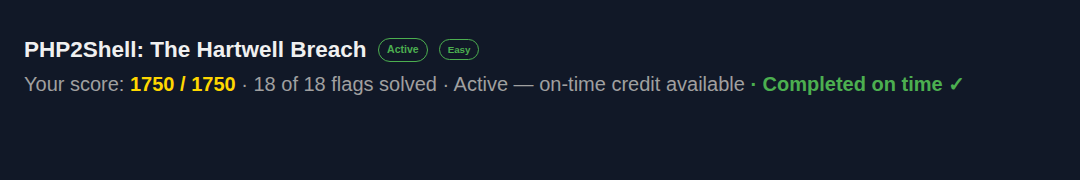
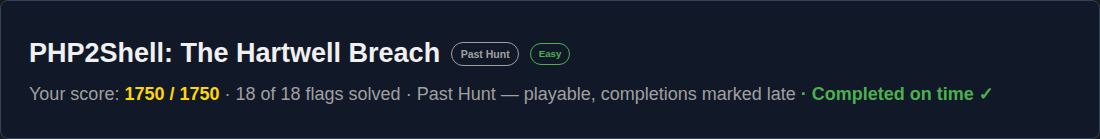
Document Hartwell threat hunt with evidence screenshots

diff --git a/tests/test_visual_evidence.py b/tests/test_visual_evidence.py
@@ -1,4 +1,4 @@
-"""Disclosure-boundary regressions for the five reviewed portfolio captures."""
+"""Disclosure-boundary regressions for the reviewed portfolio captures."""
 from copy import deepcopy
 import hashlib
 import importlib.util
@@ -33,13 +33,13 @@ class VisualEvidenceTests(unittest.TestCase):
             self.assertTrue(Q.protected(Path(name)), name)
 
     def test_allowlist_is_exact_and_does_not_allow_path_variants(self):
-        self.assertEqual(len(Q.REVIEWED_IMAGE_PATHS), 5)
+        self.assertEqual(len(Q.REVIEWED_IMAGE_PATHS), 7)
         for name in Q.REVIEWED_IMAGE_PATHS:
             self.assertFalse(Q.protected(Path(name)))
             self.assertTrue(Q.protected(Path("unapproved") / name))
             self.assertTrue(Q.protected(Path("Planning/..") / name))
 
-    def test_valid_bounded_png_and_actual_five_images(self):
+    def test_valid_bounded_png_and_actual_reviewed_images(self):
         data = png()
         self.assertEqual(Q.inspect_reviewed_png(data, record(data)), [])
         records = Q.load_reviewed_images((ROOT / "docs/visual-evidence.json").read_text())

diff --git a/tools/check_repository.py b/tools/check_repository.py
@@ -20,6 +20,8 @@ REVIEWED_IMAGE_PATHS = frozenset({
     "vulnerability-management/evidence/assessment-overview.png",
     "cyber-defense/workbooks/evidence/workbook-overview.png",
     "threat-hunting/evidence/hunt-completion.png",
+    "threat-hunting/evidence/hartwell-source-coverage.png",
+    "threat-hunting/evidence/hartwell-analysis-checks.png",
     "docs/evidence/endpoint-response.png",
 })
 MAX_IMAGE_BYTES = 256 * 1024
@@ -74,7 +76,7 @@ def check_links(path, text, root):
 
 
 def load_reviewed_images(text):
-    """Only the fixed five paths; manifest fields cannot expand readable scope."""
+    """Only the fixed reviewed paths; manifest fields cannot expand readable scope."""
     data = json.loads(text)
     images = data.get("images", [])
     if data.get("schema") != 1 or len(images) != len(REVIEWED_IMAGE_PATHS):

diff --git a/threat-hunting/README.md b/threat-hunting/README.md
@@ -1,34 +1,168 @@
-# Threat hunting and incident reconstruction
+# PHP2Shell: The Hartwell Breach
 
-[Portfolio](../README.md) · [Detection engineering](../cyber-defense/README.md) · [Validation](../docs/local-validation.md)
+[Portfolio](../README.md) · [Windows investigation](module-1/README.md) · [Investigation method](investigation-method.md)
 
-This collection shows how to turn security events into a defensible account of what happened: establish data coverage, correlate independent sources, distinguish attempted actions from successful ones, and document uncertainty before proposing containment.
+**Threat hunt report · Ryan DeJong · November 13, 2026**
 
-Two authorized investigations inform the work. Their original evidence and detailed reports remain private; the repository provides reusable methods, original queries, and sanitized execution summaries.
+[Scope](#scope-and-tools) · [Findings](#what-happened) · [Behavior mapping](#behavior-mapping) · [Recommended response](#recommended-response)
 
-## Investigations and artifacts
+I investigated a compromised Linux web server running WordPress, following the activity from web reconnaissance through command execution, credential access, and persistence. The work used KQL against seven log sources in an authorized Cyber Range training dataset.
 
-| Work | Method and result | Read next |
+The strongest evidence came from connecting HTTP requests to host activity. A suspicious request became much more meaningful when a filesystem event, a new web endpoint, and a web-server child process supported the same explanation. I also checked whether the attacker's attempts to stop monitoring worked and whether the available records supported lateral movement.
+
+**Result:** 18/18 flags, 1,750/1,750 points, completed within the competition window. The technical findings and their limits are documented below.
+
+![Actual Hartwell hunt page showing the title, 1750 of 1750 points, 18 of 18 flags solved, and Completed on time](evidence/hunt-completion.png)
+
+*Screenshot from the completed hunt. The page now labels the competition as a past hunt; my result still shows “Completed on time.” Only the original title and my completion indicator are shown. [Screenshot provenance](../docs/visual-evidence.md).*
+
+## Scope and tools
+
+| Item | Scope |
+|---|---|
+| Environment | One Linux/WordPress scenario host; historical training telemetry |
+| Event window | October 23, 2026, 04:00–16:00 UTC, narrowed for individual questions |
+| Query platform | Azure Log Analytics and Kusto Query Language (KQL) |
+| Analysis | HTTP and host-event correlation, process ancestry, safe decoding, timeline reconstruction, and scope checks |
+| Supporting tools | Python for checking transformations and evidence hashes |
+| Response work | Recommendations only; no containment or recovery was performed on the scenario host |
+
+### Check coverage before drawing conclusions
+
+The scoped dataset contained **52,979 events**. These are log records, not 52,979 attacks or unique actions.
+
+| Source | Events | What it contributed |
+|---|---:|---|
+| Apache access | 2,895 | Request patterns, new URIs, and HTTP status codes |
+| Apache error | 93 | PHP warnings and application-side context |
+| Enriched HTTP | 458 | Request metadata and decoded command fields |
+| Sysmon | 34,559 | Process creation, parent processes, and available network events |
+| Linux audit | 9,786 | Filesystem activity and corroborating host evidence |
+| Authentication | 382 | Available login and service-related context |
+| Syslog | 4,806 | System and monitoring-related messages |
+
+![Evidence review showing the seven source counts and their observed time coverage](evidence/hartwell-source-coverage.png)
+
+*Screenshot of my local evidence review, built from the preserved KQL results. This is an analysis view, not an Azure console screenshot. The bars show the first and last observed event for each source; they do not imply uninterrupted logging.*
+
+Authentication and Syslog records started after the main command window. Some normalized network fields were empty. Those gaps mattered when assessing what I could reasonably rule out.
+
+This is a shortened version of the coverage query. The time parameters are deliberately empty; they must be set for an authorized dataset before use. It omits the original query's `TimeGenerated` comparisons because those values do not establish ingestion time.
+
+```kusto
+let Begin = datetime(null);
+let End = datetime(null);
+union withsource=SourceTable
+    HartwellApache_CL, HartwellApacheError_CL,
+    HartwellHTTPEnriched_CL, HartwellSysmon_CL,
+    HartwellAudit_CL, HartwellAuth_CL, HartwellSyslog_CL
+| where isnotnull(Begin) and isnotnull(End)
+| where OriginalTime between (Begin .. End)
+| summarize Events=count(),
+            FirstEvent=min(OriginalTime),
+            LastEvent=max(OriginalTime) by SourceTable
+| order by FirstEvent asc
+```
+
+## What happened
+
+The sequence below combines several sources. It is not a second-by-second synchronized timeline: an apparent offset between application error and HTTP records remained unresolved.
+
+| Stage | Evidence I followed | Conclusion |
 |---|---|---|
-| Web-server incident reconstruction | Completed investigation using seven event sources. Correlated HTTP activity with host execution, decoded request content as data, and assessed persistence, evasion attempts, and possible data transfer. Coverage gaps remained explicit. | [HTTP-to-host investigation method](investigation-method.md) |
-| Windows endpoint investigation | Executed ten scoped KQL queries against authorized historical telemetry. Produced an evidence-linked timeline, incident analysis, and a proposed containment plan. The combined focus timeline contained 233 source rows, not 233 unique attacker actions. | [Defender query catalog and execution report](module-1/README.md) |
+| Reconnaissance | Repeated probes, request volume, and scanner-identifying user-agent records | The traffic included deliberate reconnaissance rather than ordinary browsing alone. |
+| Exploitation and foothold | Upload-related request characteristics, PHP warnings, audit filesystem events, and a newly requested PHP endpoint | Multiple sources supported the transition from probing to a webshell. A warning alone did not prove the exploit mechanism. |
+| Remote command execution | Apache-parented processes and enriched HTTP command metadata | The attacker obtained command execution in the web-service account's context. |
+| Discovery and credential access | Host/network discovery commands, monitoring enumeration, configuration reads, and SQL query metadata | The attacker investigated the host and accessed application/database credential material. Exact returned contents were not collected. |
+| Attempted monitoring disruption | Service-stop commands followed by continuing process, audit, and monitoring-related activity | The evidence supported attempted suppression, not sustained loss of all monitoring. |
+| Persistence and scope | Scheduling commands, a staged implant, HTTP responses, and scoped process/command checks | Commands to establish persistence were observed. The available command records did not establish lateral movement. |
 
-![Owned hunt completion indicator showing 18 of 18 flags and 1750 of 1750 points, completed on time](evidence/hunt-completion.png)
+### 1. Connect the web activity to execution
 
-*Actual completion indicator for the web-server investigation. Only the title and owned result are shown; no answers, telemetry or participant scoreboard are included. [Capture provenance](../docs/visual-evidence.md).*
+I started with access-log patterns, then used application errors and enriched HTTP records to narrow the suspicious requests. The important step was corroboration: Linux audit events supported a new file in the web root, later access logs showed requests to that endpoint, and Sysmon recorded child processes associated with the web server.
 
-## Investigation workflow
+That chain supported successful command execution. It was stronger than treating every unusual request or PHP warning as a successful exploit. I did not attribute a specific CVE from the available evidence.
 
-1. Define the authorized device set, time window, hypothesis, and available event sources.
-2. Check coverage before interpreting a missing result. Preserve query hashes, timestamps, row limits, and source event identifiers.
-3. Correlate authentication, process, network, file, registry, account, and persistence evidence. Keep actor and target fields distinct.
-4. Build a timeline and test alternative explanations. A shared alert is an investigation lead; it does not establish that every linked endpoint was compromised.
-5. Propose a bounded response and recovery plan based on supported findings. Separate proposed actions from actions actually performed.
+For process triage, I grouped executable and parent-process pairs before inspecting a smaller set of command records. This excerpt follows the same approach; the account and time bounds are withheld parameters. The shortened queries in this report were not rerun against the service.
 
-The [query catalog](module-1/README.md#query-index) covers each evidence category. All saved queries default to empty device scope and null time bounds; authorized values belong in a private execution copy. The [report structure](module-1/README.md#incident-report-structure) makes findings, uncertainty, provenance, and response decisions reviewable.
+```kusto
+let Begin = datetime(null);
+let End = datetime(null);
+let WebAccount = "";
+HartwellSysmon_CL
+| where isnotnull(Begin) and isnotnull(End) and isnotempty(WebAccount)
+| where OriginalTime between (Begin .. End)
+| where toint(EventID) == 1 and User == WebAccount
+| summarize ProcessEvents=count(),
+            FirstSeen=min(OriginalTime),
+            LastSeen=max(OriginalTime) by Image, ParentImage
+| order by ProcessEvents desc
+```
 
-## From investigation to detection and response
+### 2. Verify the hidden command channel
 
-The [authentication-sequence detector](../cyber-defense/README.md) and [Sentinel workbook](../cyber-defense/workbooks/README.md) demonstrate a separate, testable correlation use case. Their synthetic results do not establish that they detected these historical incidents. The [endpoint response report](../docs/endpoint-validation.md) records a separately authorized isolation/recovery exercise on the owned VM; no response was performed against the historical investigation endpoints.
+Standard access logs did not provide the full command context. Enriched HTTP records exposed the additional request metadata needed to understand how the webshell was operated.
 
-Restricted answers, account names, internal addresses, raw telemetry, and private incident timelines are excluded. The detailed [execution limits](module-1/README.md#observed-execution-and-limits) remain part of the technical record.
+I checked four raw/decoded command pairs as data. Reapplying the candidate transformations reproduced all four observed encoded values exactly; alternative transformation orders did not match. I then compared the decoded activity with host-process evidence. No decoded command was executed during the analysis.
+
+This established the tested encoding order for those samples. It did not prove that every encoded request in the dataset used the same scheme. The custom header name, payload names, and exact flag values remain private.
+
+### 3. Follow discovery and credential access
+
+Process records showed the attacker inspecting network configuration, neighboring systems, listening services, and the monitoring stack. Later activity accessed application configuration and queried user records in the database.
+
+I retained the query structure and relevant table/column metadata without collecting password or hash values. Configuration and database reads lined up with webshell requests and responses. Response metadata supported data returning over the existing webshell channel, but the response bodies were not retrieved. Early HTTP errors were not counted as successful extraction, and I did not claim a confirmed number of stolen records.
+
+### 4. Test whether the monitoring disruption worked
+
+The attacker tried to stop monitoring services. A stop command in a process log only establishes an attempt, so I checked what happened afterward.
+
+The follow-up window contained **608 Sysmon events** and **385 audit events**. It also contained **7 forwarder-related process events**, which are a subset of the Sysmon count, not seven additional independent events. That continued activity supported the conclusion that monitoring was not persistently silenced.
+
+The available records did not include every command's exit code or output. The web-service account's limited privileges provided context, but continued telemetry was the observable basis for the outcome assessment. Short gaps in monitoring were not ruled out.
+
+### 5. Assess persistence and incident scope
+
+Scheduling commands and a staged implant supported an attempt to maintain access. The staging path pointed to a location normally backed by volatile storage, which would matter for evidence collection before a restart. I did not inspect the target's mount configuration, swap behavior, or implant contents, so I did not claim the artifact was forensically unrecoverable. An installation command alone did not prove that later scheduled executions succeeded.
+
+For lateral movement, I reviewed **71 web-account process-creation records** and **45 decoded webshell commands** in the narrowed window. The scoped checks found no remote-login tools, explicit remote database host options in the process records, or references to additional internal destinations in those reviewed commands.
+
+![Evidence review showing monitoring continuation, four encoding checks, and the limits of the lateral-movement assessment](evidence/hartwell-analysis-checks.png)
+
+*Screenshot of my local analysis review, using preserved query results. Counts describe the reviewed records and checks. They do not establish complete network visibility or prove that no other activity occurred.*
+
+My conclusion was **no lateral movement evidenced in the reviewed scope**. Empty destination, port, and initiation fields prevented a complete network-level conclusion. I did not turn missing fields into “no connections” or classify an empty destination as a verified external address.
+
+## Behavior mapping
+
+These are analyst mappings of the supported behavior, not attribution to a named threat group. ATT&CK describes the techniques; the investigation evidence determines whether an attempt or outcome was observed.
+
+| Behavior | ATT&CK reference | Assessment |
+|---|---|---|
+| Webshell-based access | [T1505.003 — Web Shell](https://attack.mitre.org/techniques/T1505/003/) | Corroborated by web, filesystem, and process records. |
+| Access to credential-bearing configuration | [T1552.001 — Credentials In Files](https://attack.mitre.org/techniques/T1552/001/) | File/query activity observed; secret values excluded from collection and publication. |
+| Attempts to disable monitoring | [T1685 — Disable or Modify Tools](https://attack.mitre.org/techniques/T1685/) | Attempt observed; subsequent monitoring activity remained visible. |
+| Recurring execution mechanism | [T1053 — Scheduled Task/Job](https://attack.mitre.org/techniques/T1053/) | Installation command observed; later scheduled execution was not verified. |
+| Data returned through the command channel | [T1041 — Exfiltration Over C2 Channel](https://attack.mitre.org/techniques/T1041/) | Supported channel interpretation; response contents and total data loss were not independently established. |
+
+## Recommended response
+
+These are proposed actions for an authorized response team, not actions performed during this hunt:
+
+1. Preserve volatile host evidence, relevant logs, and the web application state before restarting or rebuilding the server.
+2. Contain the compromised web service while preserving an approved recovery path. Investigate and correct the entry point before returning it to service.
+3. Rotate exposed application/database credentials and assess affected user accounts. Establish the actual exposure from retained evidence rather than assuming every database record was stolen.
+4. Remove the webshell and persistence, verify monitoring health, and validate recovery from a trusted state.
+5. Expand the scope with usable network and authentication evidence. Review other assets only with explicit authorization.
+
+Detection improvements would focus on web-server processes spawning shells, new executable content under the web root, monitoring-service stop attempts, and unexpected scheduled execution. Correlating those behaviors with HTTP activity is more useful than depending on one payload filename or attacker-controlled header.
+
+## Lessons and evidence
+
+The most useful habit in this investigation was asking what each record actually proved. A request was not execution, a stop command was not a stopped service, and an empty network field was not evidence of no traffic. Checking source coverage early kept those distinctions clear.
+
+The [sanitized evidence summary](investigation-summary.json) records the counts used here. Private records retain the executed queries, source results, timestamps, and integrity manifests; **34 hunt evidence files were rechecked against their saved hashes** while preparing this report. Hash agreement verifies preserved bytes, not the completeness or independent authenticity of the source telemetry.
+
+Screenshots include one actual application capture and two clearly labeled local analysis views. No result values were invented or changed. Private addresses, credentials, exact challenge answers, raw commands, and participant scoreboard information are excluded. [Capture details and image hashes](../docs/visual-evidence.md).
+
+For related work, see the [separate Windows investigation](module-1/README.md), [reusable investigation method](investigation-method.md), and [authentication detection and Sentinel workbook](../cyber-defense/README.md). Those are separate projects; their results are not presented as findings from this hunt.

diff --git a/docs/local-validation.md b/docs/local-validation.md
@@ -17,7 +17,7 @@ The first suite requires the already cached public DISA archive, supplied explic
 
 ## Observed validation
 
-Repository test checkpoint: November 14, 2026 UTC (November 13 local workday). Local tests performed no downloads, installations or Windows modifications. Separately authorized Windows remediation and Tenable assessments are recorded as distinct execution layers below.
+Repository test checkpoint: November 14, 2026 UTC (November 13 local workday), with all 221 Python tests rerun for the Hartwell report refresh. Local tests performed no downloads, installations or Windows modifications. Separately authorized Windows remediation and Tenable assessments are recorded as distinct execution layers below.
 
 | Layer | Actual result |
 |---|---|
@@ -32,7 +32,7 @@ Repository test checkpoint: November 14, 2026 UTC (November 13 local workday). L
 | Tenable baseline/follow-up | One authenticated baseline and one equivalent follow-up assessed the same host and 258 compliance findings each. All ten exact V2R11 rules changed FAILED → PASSED, with credentialed SMB and registry access. Original empty and diagnostic-only histories remain preserved. Both raw compliance exports passed integrity and actual-format extraction checks. Temporary scan settings and Windows prerequisites were restored after each run. See the [execution report](windows-stig-validation.md). |
 | Private browser adapter | Repeated authorized page reads/navigation through one temporary official MCP/CLI connection. After a native-input and route-scope correction, 14 Python adapter cases and 15 Node guard cases passed; all 15 Node cases also passed on Windows. Native clicks were observed as trusted and delivered to the exact owned export controls, but no download was obtained. Temporary processes were stopped, preserving Chrome and loopback debugging. These separate adapter tests are not part of the 221 repository tests. |
 | Coordination-workstation browser | Repeated authenticated course/hunt reads and navigation succeeded through one local official MCP/CLI session. It runs as the normal user, with no service/autostart or public debugging listener. Its URL target filter is a version-pinned private customization, not a browser-profile security boundary. |
-| Repository disclosure/link/ignore checks | 102 Git-visible text files and five exact reviewed PNGs checked, zero findings. Image hashes, bounded dimensions/sizes, PNG structure/checksums and absence of metadata chunks were verified. Checks are not comprehensive secret detection or pixel-content review. |
+| Repository disclosure/link/ignore checks | 103 Git-visible text files and seven exact reviewed PNGs checked for the Hartwell report refresh, zero findings. Image hashes, bounded dimensions/sizes, PNG structure/checksums and absence of metadata chunks were verified. Checks are not comprehensive secret detection or pixel-content review. |
 | KQL service execution | Eight synthetic authentication-sequence cases passed in authorized Log Analytics using the actual detector body and datatables only. Separately scoped training-investigation queries also executed successfully. All five new workbook panels also passed synthetic service-result contracts. Ten investigation queries passed empty-scope execution against the authorized Log Analytics schema, with zero rows. An owned-VM authentication query returned zero events in its bounded interval. A later authorized query against the correct course workspace executed all ten queries on assigned historical data, with a 233-row focus timeline. The owned endpoint was subsequently onboarded and a benign process event was observed centrally. These distinct results do not establish live detector performance. The earlier narrow Graph request returned 403; the supported Log Analytics route used existing authorized data access. |
 | Azure diagnostics | Bounded existing-VM/NIC/subnet and read-only guest observations collected. Shared NSG read denied; investigation stopped at that boundary. |
 
@@ -66,10 +66,14 @@ The Windows integration evidence already establishes PowerShell 5.1 parser and m
 
 ## Quality-check limitations
 
-[check_repository.py](../tools/check_repository.py) obtains candidates from read-only Git listing, refuses protected paths before opening them, checks local Markdown/HTML links, selected disclosure hazards, KQL empty defaults/scope, and hypothetical ignore paths. The only image exceptions are five exact paths with matching [reviewed hashes and provenance](visual-evidence.json); unknown images, replaced bytes, metadata chunks and excess size fail validation. All five images were visually inspected; the automated checker does not read pixel meaning. It does not inspect ignored private directories or print matched secret values. It is not a complete secret detector or data-loss-prevention system; free-form sensitive details, new credential formats and misleading claims still require human review. It does not scan Git history or the contents of staged blobs; independently inspect the exact staged revision only after staging is authorized.
+[check_repository.py](../tools/check_repository.py) obtains candidates from read-only Git listing, refuses protected paths before opening them, checks local Markdown/HTML links, selected disclosure hazards, KQL empty defaults/scope, and hypothetical ignore paths. The only image exceptions are seven exact paths with matching [reviewed hashes and provenance](visual-evidence.json); unknown images, replaced bytes, metadata chunks and excess size fail validation. All seven images have been visually inspected; the automated checker does not read pixel meaning. It does not inspect ignored private directories or print matched secret values. It is not a complete secret detector or data-loss-prevention system; free-form sensitive details, new credential formats and misleading claims still require human review. It does not scan Git history or the contents of staged blobs; independently inspect the exact staged revision only after staging is authorized.
 
 Public claims must distinguish authored source, static checks, Python runtime tests, PowerShell runtime tests, Windows observation, Tenable results and independent review. External acceptance is a separate decision with private administrative records; no local test or generated report awards it. There is no implemented or evaluated AI system in this package.
 
 The evidence audit independently reparsed both original compliance exports, reconciled the same host identity and saved-configuration fingerprint, checked all ten exact Rule IDs, and verified 154 Windows evidence hashes, 33 unchanged source hashes and 110 execution-stage results. The four-file hunt completion bundle also matched its manifest. See the [program results](../vulnerability-management/README.md) and [workbook evidence](../cyber-defense/workbooks/validation-results.json). The later workbook deployment is recorded under `EV-WORKBOOK-V17`: five rendered synthetic panels, native full-range control, empty-data behavior and exact source readback. No live detection effectiveness is established.
 
 The [endpoint validation](endpoint-validation.md) records actual onboarding, central process ingestion, forensic collection and bounded isolation/release. These later approved operations are separate from the retained STIG assessment and local tests.
+
+## Hartwell case-report refresh
+
+The [Hartwell report](../threat-hunting/README.md) now occupies the existing tracker-linked GitHub path. Preparing it rechecked 34 private hunt-evidence hashes and preserved the original results. A fresh capture of the owned completion indicator was taken through the existing browser connection; the page was restored afterward. Two additional screenshots show clearly labeled local analysis views of saved query results. The three hunt images are unchanged native PNG captures, totaling 236,413 bytes. No new telemetry queries, scans, host changes, or investigation-response actions were performed. The shortened KQL excerpts are documented adaptations, not newly executed service queries.

diff --git a/docs/visual-evidence.md b/docs/visual-evidence.md
@@ -2,16 +2,18 @@
 
 [Portfolio](../README.md) · [Validation](local-validation.md)
 
-Five images illustrate the main projects. Together they occupy about **0.49 MiB**. Full technical records remain the source for interpreting results; a screenshot is not a substitute for assessment scope, authentication, source hashes or validation limits.
+Seven images illustrate the main projects. Together they occupy about **0.69 MiB**. Full technical records remain the source for interpreting results; a screenshot is not a substitute for assessment scope, authentication, source hashes or validation limits.
 
 | Image | Origin and meaning |
 |---|---|
 | [STIG control results](../stig-remediations/evidence/control-results.png) | Screenshot of an original local evidence report: ten authenticated FAILED → PASSED comparisons, Windows checks and actual recovery validation. Built from the [assessment record](../vulnerability-management/assessment-summary.json); this is not the Tenable console. |
 | [Assessment overview](../vulnerability-management/evidence/assessment-overview.png) | Screenshot of an original local report showing all 258 compliance outcomes before and after the changes. Remaining failures, errors and warnings stay visible. These are audit counts, not CVE counts or a risk-reduction percentage. |
 | [Sentinel workbook](../cyber-defense/workbooks/evidence/workbook-overview.png) | Actual deployed Azure workbook showing coverage, authentication charts and candidate sequences. Its data is explicitly synthetic; the event-context panel is below the captured viewport. Portal identity chrome was excluded using temporary local presentation framing, then the original layout was restored. No workbook source or query result changed. |
-| [Completed hunt](../threat-hunting/evidence/hunt-completion.png) | Actual owned completion indicator: 18/18 flags, 1,750/1,750 points, completed on time. Only the existing title and completion indicator were displayed for capture, with temporary spacing and contrast adjustments. The original page was restored. Questions, answers, raw events, topology and other participants are excluded. |
+| [Completed hunt](../threat-hunting/evidence/hunt-completion.png) | Fresh capture of the actual owned completion indicator: 18/18 flags, 1,750/1,750 points, completed on time. The page now says Past Hunt; the personal result still says Completed on time. Only the original title and score nodes were framed, with temporary spacing and contrast adjustments. Their text was unchanged and the original page was restored. Questions, answers, raw events, topology and other participants are excluded. |
+| [Hartwell source coverage](../threat-hunting/evidence/hartwell-source-coverage.png) | Screenshot of an original local analysis view built from preserved KQL aggregates: 52,979 records across seven sources. First/last-event spans make the late Authentication and Syslog coverage visible; they do not imply uninterrupted logging. Based on the [sanitized investigation summary](../threat-hunting/investigation-summary.json), not a live Azure console. |
+| [Hartwell analysis checks](../threat-hunting/evidence/hartwell-analysis-checks.png) | Screenshot of the local evidence review: 608 Sysmon and 385 audit events after monitoring-stop attempts, including seven forwarder-related records within the Sysmon count; four exact encoding-pair checks; 71 process and 45 decoded-command records reviewed. The image retains the network-visibility limitation and makes no global absence claim. Not an Azure console capture. |
 | [Endpoint response](evidence/endpoint-response.png) | Screenshot of an original local report summarizing observed onboarding, investigation collection and isolation/recovery. Based on the [execution record](endpoint-validation.md); this is not the Defender console. The limited ingestion and connectivity coverage remain explicit. |
 
-The three local reports use already sanitized records. The two application captures preserve the actual displayed values. No image uses AI-generated pixels, invented findings or retouched result values. Original captures and rendering records remain private under `EV-PORTFOLIO-VISUALS-V22`.
+The five local analysis/report views use sanitized records. The two application captures preserve the actual displayed values. No image uses AI-generated pixels, invented findings or retouched result values. Original captures and rendering records remain private under `EV-PORTFOLIO-VISUALS-V22` and `EV-HARTWELL-REPORT-REFRESH`. The three current hunt images are byte-for-byte native browser captures; no post-capture pixel editing or metadata removal was needed.
 
-The [image manifest](visual-evidence.json) records exact SHA-256 hashes, dimensions, sizes, sources and framing. Repository checks accept only these five paths and exact bytes, reject PNG metadata/extra chunks and enforce size limits. Other screenshots and source attachments remain ignored. These checks do not inspect pixel meaning; any replacement requires another visual disclosure review.
+The [image manifest](visual-evidence.json) records exact SHA-256 hashes, dimensions, sizes, sources and framing. Repository checks accept only these seven paths and exact bytes, reject PNG metadata/extra chunks and enforce size limits. Other screenshots and source attachments remain ignored. These checks do not inspect pixel meaning; any replacement requires another visual disclosure review.

diff --git a/README.md b/README.md
@@ -13,7 +13,7 @@ Start with the [Windows hardening results](docs/windows-stig-validation.md), the
 | [Windows 11 STIG automation](stig-remediations/README.md) | Ten PowerShell remediations for DISA Security Technical Implementation Guide controls, with separate verification, previews, snapshots, and guarded rollback. | **10 authenticated Tenable findings changed from FAILED to PASSED** against Windows 11 V2R11. Actual repeat application, rollback, and reapply checks passed for every control. |
 | [Vulnerability management program](vulnerability-management/README.md) | A complete assessment cycle for one endpoint: asset scope, prioritization, remediation, equivalent reassessment, reporting, and a residual-work queue. | Reconciled **258 compliance items** before and after the changes. All ten selected failures closed; remaining failures, errors, and warnings stay visible. Governance exercises are labeled as simulations. |
 | [Detection engineering and Sentinel workbook](cyber-defense/README.md) | Authentication-sequence KQL, a Python reference model, reproducible fixtures, and a five-panel investigation workbook. | Eight synthetic detector cases passed in Log Analytics. The deployed workbook's charts, event context, time controls, and empty-data behavior were verified using explicitly synthetic events. |
-| [Threat hunting and incident reconstruction](threat-hunting/README.md) | HTTP-to-host investigation methods and ten scoped Defender queries covering access, execution, persistence, network activity, and timelines. | Queries executed against authorized historical telemetry; findings, a timeline, and a containment proposal were documented privately. Public artifacts preserve the methods without disclosing restricted answers or telemetry. |
+| [Threat hunting and incident reconstruction](threat-hunting/README.md) | The Hartwell Breach case report: web-to-host correlation, command analysis, monitoring checks, screenshots, and a proposed response. A separate Windows investigation includes ten scoped Defender queries. | **18/18 flags and 1,750/1,750 points**, completed on time. The report explains findings from seven log sources and the limits of the evidence. Private indicators and exact challenge answers are withheld. |
 | [Endpoint telemetry and response](docs/endpoint-validation.md) | Defender onboarding, telemetry checks, investigation-package collection, and controlled isolation/recovery on the owned endpoint. | Central process telemetry observed; **70/70 collection operations succeeded**; isolation and release succeeded with observed connectivity loss and recovery. |
 
 All operational results come from authorized Cyber Range work. Synthetic detection tests, historical investigations, and actual Windows configuration changes are identified separately.
@@ -27,7 +27,7 @@ All operational results come from authorized Cyber Range work. Synthetic detecti
 </tr>
 </table>
 
-Each project includes its relevant image. See the [five-image evidence index](docs/visual-evidence.md) for the assessment overview, hunt completion and endpoint response, with provenance and limitations. The complete image set is about 0.49 MiB.
+Each project includes its relevant images. See the [visual evidence index](docs/visual-evidence.md) for the assessment overview, Hartwell investigation, hunt completion and endpoint response, with provenance and limitations. The seven-image set is about 0.69 MiB.
 
 ## Explore the implementation
 
